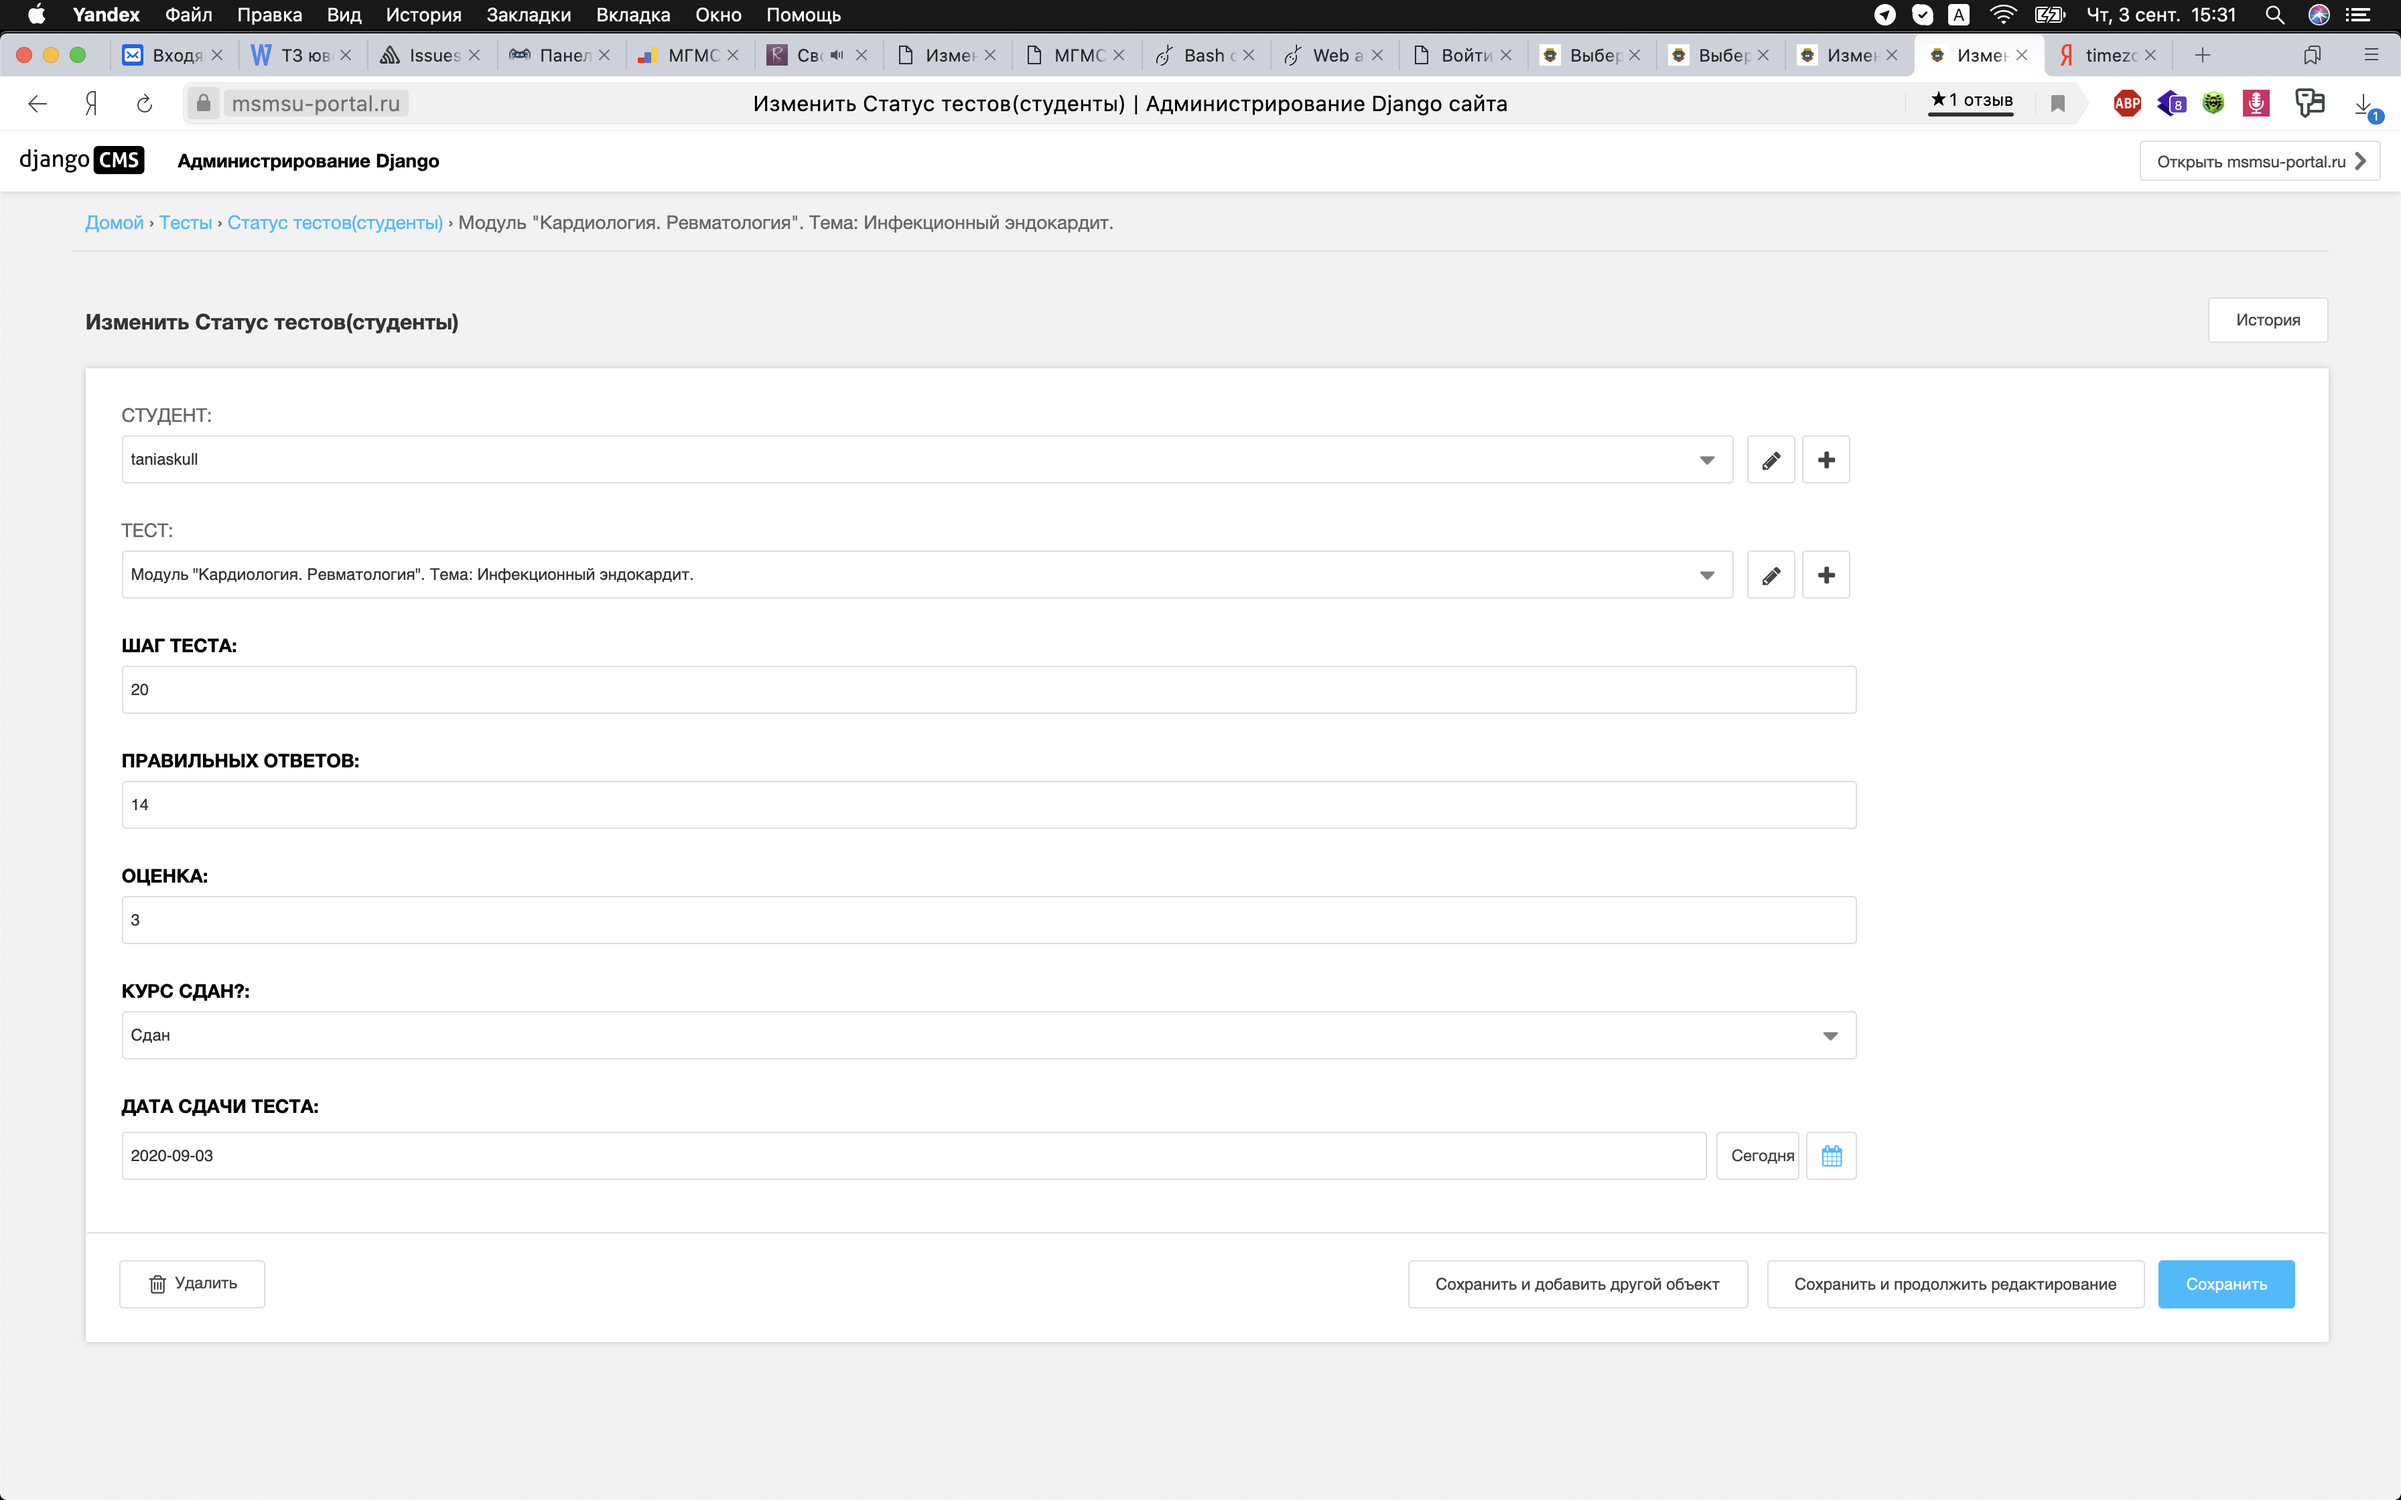
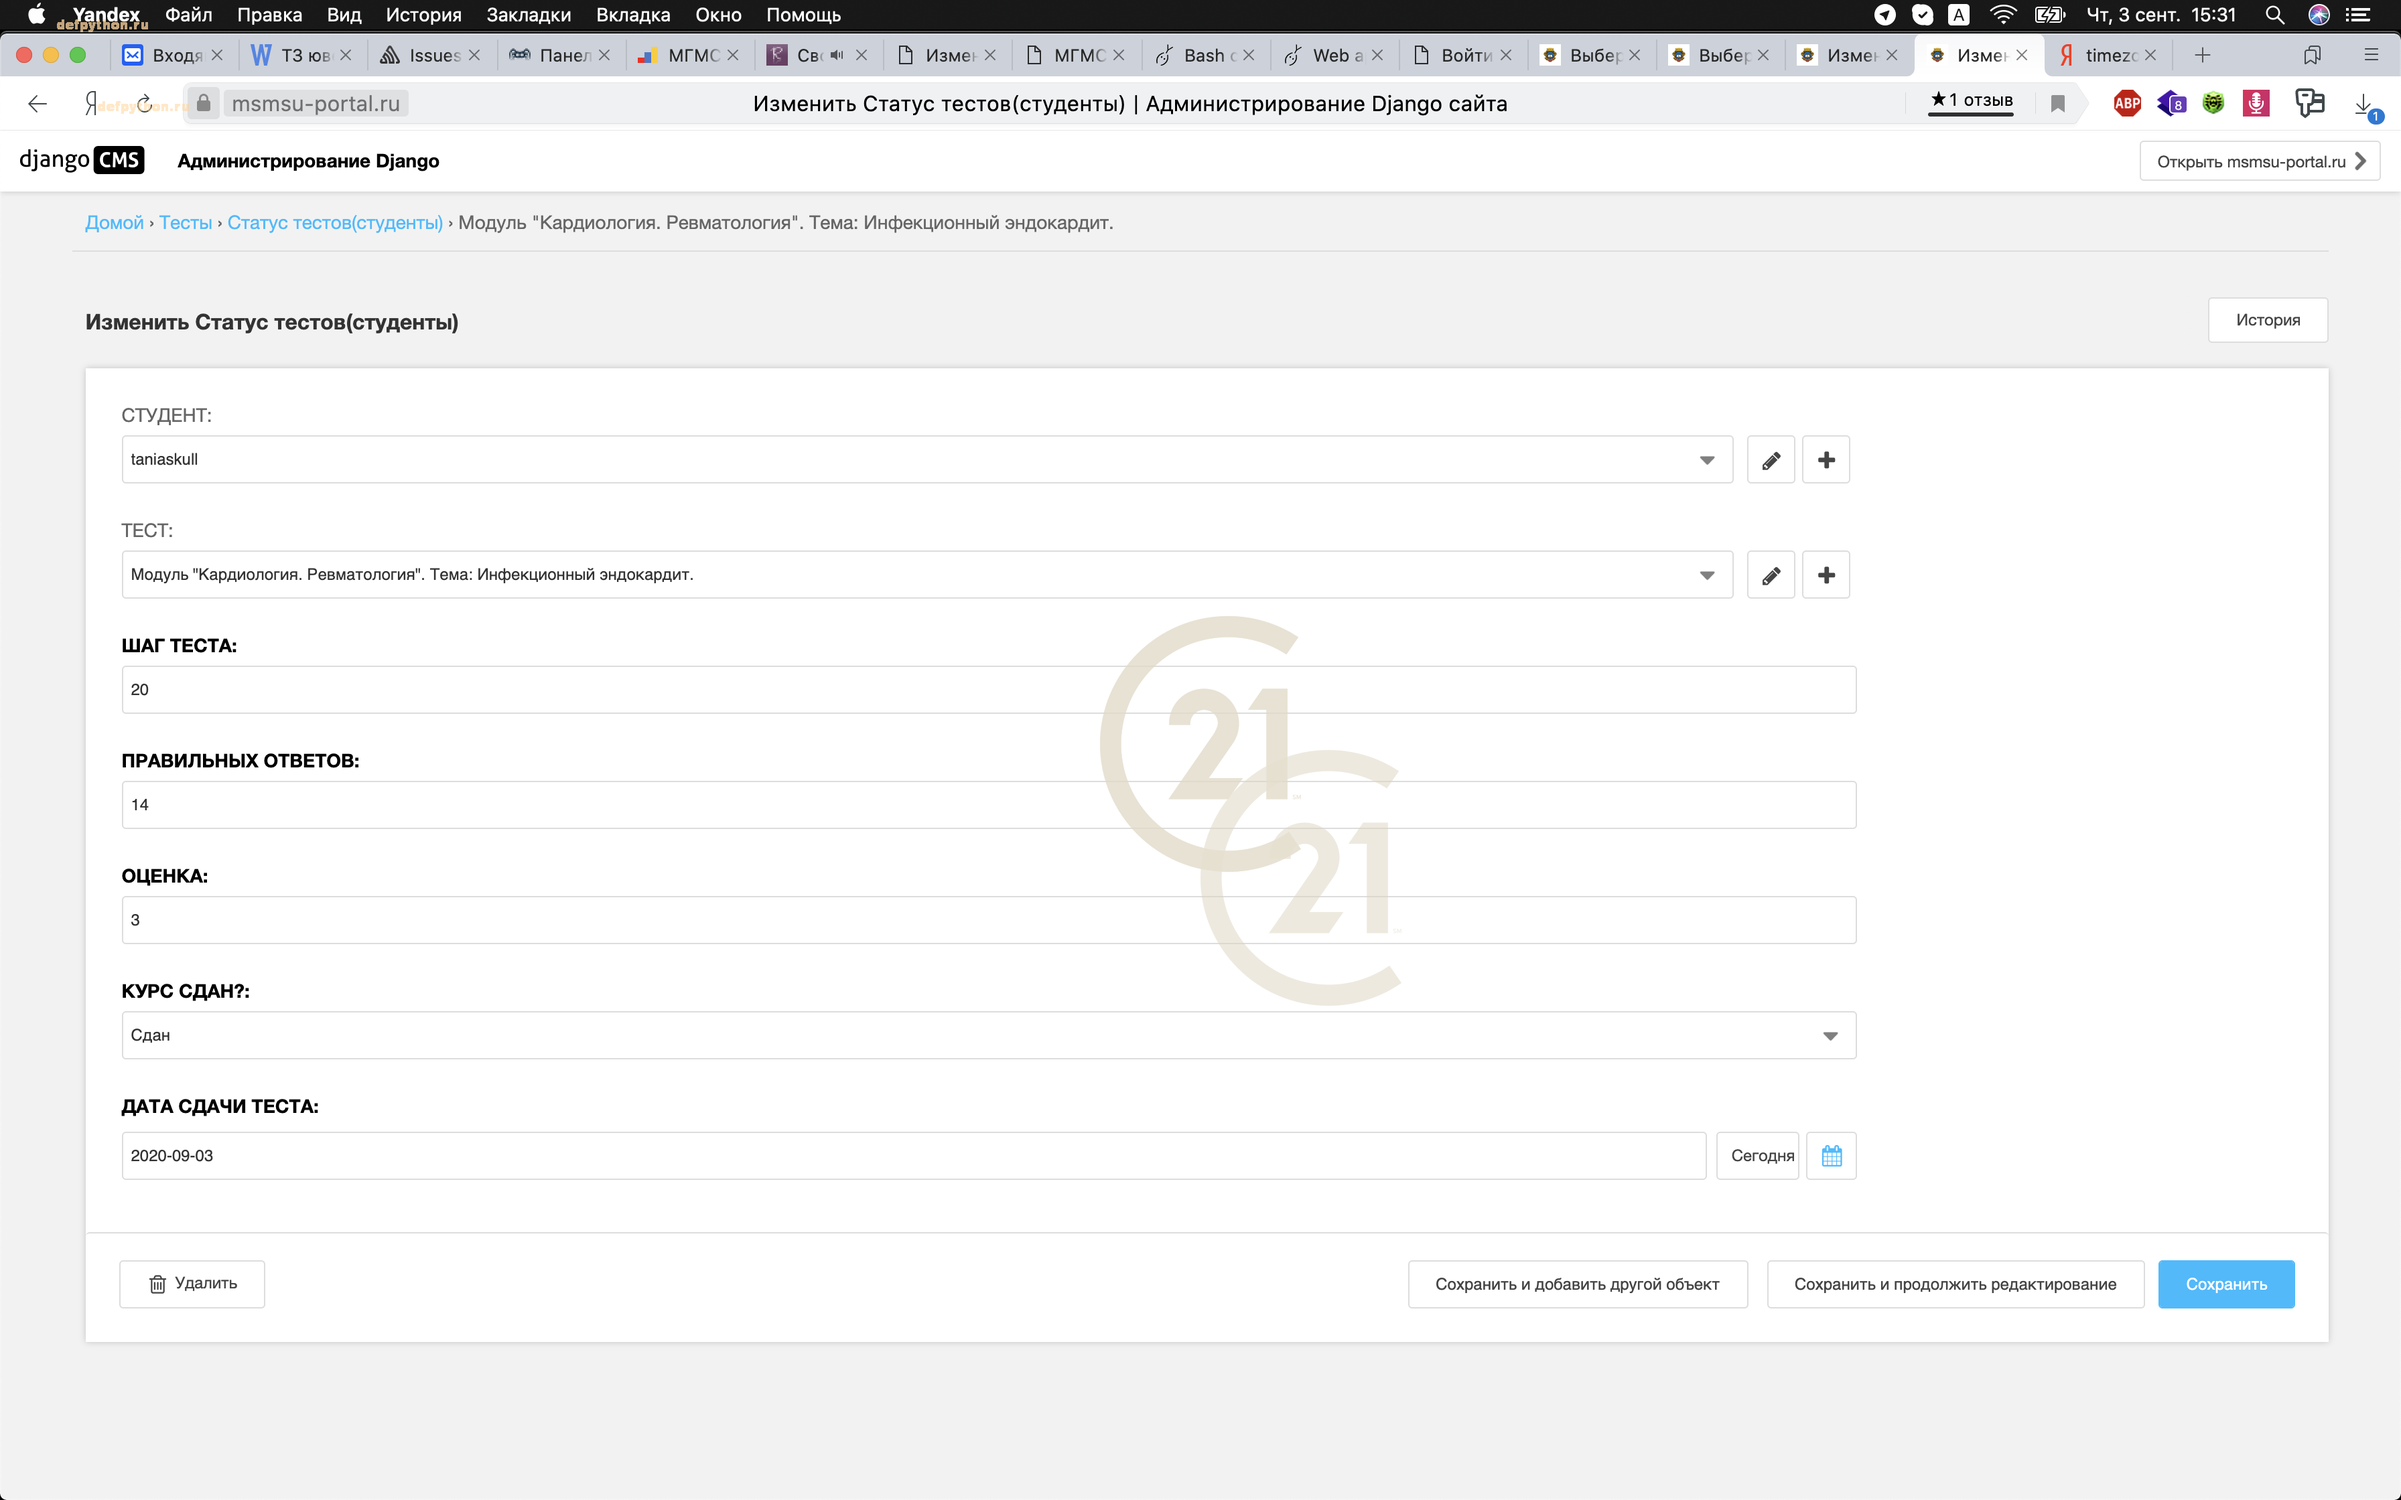
watermark

Changed region(s): [[0.4375, 0.4062, 0.5938, 0.6875], [0.0312, 0.0, 0.0625, 0.0312]]

diff --git a/templates/crm/uchastok/detail.html b/templates/crm/uchastok/detail.html
@@ -100,8 +100,8 @@
 	<div class="p-20" ><p> </p></div>
     <div class="row">
         {% for i in tp_uch.idd_gal.all %}
-            <div style="float:left; margin-right:10px; margin-top:10px;"> <img class="materialboxed" rel="gallery" height="250" src="http://77.222.52.20{{ i.npict.url|watermark:"1,opacity=40,scale=F"  }}"></div>
-        {% endfor %}	
+            <div style="float:left; margin-right:10px; margin-top:10px;"> <img class="materialboxed" rel="gallery" height="250" src="http://77.222.52.20{{ i.npict.url }}"></div>
+        {% endfor %}{% comment %}	|watermark:"1,opacity=40,scale=F" {% endcomment %}
 </div>
 {% if tp_uch.youtube %}
 <iframe width="560" height="315" src="https://www.youtube.com/embed/{{ tp_uch.youtube }}" frameborder="0" allow="accelerometer; autoplay; clipboard-write; encrypted-media; gyroscope; picture-in-picture" allowfullscreen></iframe>

diff --git a/templates/crm/flat/detail.html b/templates/crm/flat/detail.html
@@ -251,8 +251,8 @@
                                                         class="materialboxed"
                                                         rel="gallery"
                                                         height="250"
-                                                        src="http://77.222.52.20{{ i.npict.url|watermark:"1,opacity=40,scale=F" }}"></div>
-                                                {% comment %}{% endcomment %}
+                                                        src="http://77.222.52.20{{ i.npict.url }}"></div>
+                                                {% comment %}|watermark:"1,opacity=40,scale=F"{% endcomment %}
                                             {% endfor %}
 </div>
 {% if tpflat.youtube %}

diff --git a/templates/crm/doma/detail.html b/templates/crm/doma/detail.html
@@ -125,7 +125,7 @@
 	<div class="p-20" ><p> </p></div>
     <div class="row">
         {% for i in tpdom.idd_gal.all %}
-            <div style="float:left; margin-right:10px; margin-top:10px;"> <img class="materialboxed" rel="gallery" height="250" src="http://77.222.52.20{{ i.npict.url|watermark:"1,opacity=40,scale=F"  }}"></div>
+            <div style="float:left; margin-right:10px; margin-top:10px;"> <img class="materialboxed" rel="gallery" height="250" src="http://77.222.52.20{{ i.npict.url }}"></div>{% comment %}|watermark:"1,opacity=40,scale=F" {% endcomment %}
         {% endfor %}	
 </div>
 {% if tpdom %}

diff --git a/crm/views.py b/crm/views.py
@@ -387,6 +387,7 @@ def flat_postForm(request):
                     npict=a_file
                 )
                 instance.save()
+                instance.save_water()
             if '_submit_close'in request.POST:
                 return redirect('crm:my_flatunpub')
             if '_submit_new' in request.POST:
@@ -490,6 +491,7 @@ def my_flatview_edit(request,idd):
                     npict=a_file
                 )
                 instance.save()
+                instance.save_water()
             if '_submit_close'in request.POST:
                 return redirect('crm:my_flatunpub')
             if '_submit_new' in request.POST:
@@ -620,6 +622,7 @@ def my_flatview_pub(request):
                                                cena_agenstv__gte=int(minc), cena_agenstv__lte=int(maxc),
                                                ploshad__gte=int(minp), ploshad__lte=int(maxp),
                                                type = 'flat').order_by('-date_sozd')
+
 
         if KrFlatSearch.is_valid() and '_kr_submit' in request.POST:
             minp = KrFlatSearch.cleaned_data['search_minp']
@@ -1503,6 +1506,7 @@ def new_dom_view(request):
                     npict=a_file
                 )
                 instance.save()
+                instance.save_water()
             if '_submit_close' in request.POST:
                 return redirect('crm:upb_dom_view')
             if '_submit_new' in request.POST:
@@ -1547,6 +1551,7 @@ def domaeditview(request,idd):
                     npict=a_file
                 )
                 instance.save()
+                instance.save_water()
             if '_submit_close' in request.POST:
                 return redirect('crm:upb_dom_view')
             if '_submit_new' in request.POST:
@@ -1731,6 +1736,7 @@ def new_uc_view(request):
                     npict=a_file
                 )
                 instance.save()
+                instance.save_water()
             if '_submit_close' in request.POST:
                 return redirect('crm:unpub_uc_index')
             if '_submit_new' in request.POST:
@@ -1780,6 +1786,7 @@ def ucheditview(request,idd):
                     npict=a_file
                 )
                 instance.save()
+                instance.save_water()
             if '_submit_close' in request.POST:
                 return redirect('crm:unpub_uc_index')
             if '_submit_new' in request.POST:

diff --git a/crm/models.py b/crm/models.py
@@ -404,33 +404,19 @@ class flat_obj_gal(models.Model):
 #        self.npict.delete()
 
     #
-    # def save(self, *args, **kwargs):
-    #     #import Image
-    #
-    #     from PIL import Image
-    #     print(self.npict.path)
-    #     filepath = self.npict.path
-    #     image = Image.open(filepath)
-    #     crm_watermark = Watermark.objects.first().image.path
-    #     print(crm_watermark)
-    #     watermark = Image.open(crm_watermark)
-    #     print(watermark)
-    #     image.paste(watermark, (round(image.size[0] / 2), round(image.size[1] / 2)), watermark)
-    #     #print(image)
-    #     image.save(filepath)
-    #     #print(image)
-    #
-    #     print(watermark.size[0] / 2, ' ', watermark.size[1] / 2)
-    #     # base_image = Image.open(self.npict)
-    #     # watermark = Image.open(watermark_image_path)
-    #     # width, height = base_image.size
-    #     #
-    #     # transparent = Image.new('RGBA', (width, height), (0, 0, 0, 0))
-    #     # transparent.paste(base_image, (0, 0))
-    #     # transparent.paste(watermark, position, mask=watermark)
-    #     # transparent.show()
-    #     # transparent.save(output_image_path)
-    #     super(flat_obj_gal, self).save(*args, **kwargs)
+    def save_water(self, *args, **kwargs):
+        #import Image
+
+        from PIL import Image
+        filepath = self.npict.path
+        print(filepath)
+        image = Image.open(filepath)
+        crm_watermark = Watermark.objects.first().image.path
+        watermark = Image.open(crm_watermark)
+        #image.paste(watermark, (round(image.size[0] / 2), round(image.size[1] / 2)), watermark)
+        image.paste(watermark, (round(image.size[0] / 2) - 150, round(image.size[1] / 2) - 200), watermark)
+        image.save(filepath)
+        super(flat_obj_gal, self).save(*args, **kwargs)
 
 
 class clients(models.Model):

diff --git a/crm/admin.py b/crm/admin.py
@@ -116,6 +116,8 @@ class zadachi_spr_fields(admin.ModelAdmin):
 class kanal_pr_fields(admin.ModelAdmin):
     list_display = ('pk','kanal','voronka_counts')
 
+class galery_fields(admin.ModelAdmin):
+    list_display = ('pk','id_gal','npict')
 
 admin.site.register(flat_obj, flatfields, )
 admin.site.register(otchet_nov, sdelka_nov)
@@ -137,7 +139,7 @@ admin.site.register(comment, comment_fields)
 admin.site.register(zayavka_subj)#, zadachi_spr_fields)
 admin.site.register(zadachi, zadachi_fields)
 admin.site.register(zadachi_spr, zadachi_spr_fields)
-
+admin.site.register(flat_obj_gal, galery_fields)
 class UserInline(admin.StackedInline):
     model = UserProfile1
     can_delete = False

diff --git a/shell/img.py b/shell/img.py
@@ -1,0 +1,9 @@
+from PIL import Image
+
+img = Image.open('image.jpg')
+watermark = Image.open('watermark.png')
+
+img.paste(watermark, (round(img.size[0]/2)-150, round(img.size[1]/2)-200),  watermark)
+img.save("img_with_watermark.png")
+print(img.size[0]/2, ' ', img.size[1]/2)
+print(img.size[0], ' ', img.size[1])

diff --git a/shell/add_watermark.py b/shell/add_watermark.py
@@ -1,0 +1,4 @@
+from crm.models import flat_obj_gal
+
+for pict in flat_obj_gal.objects.all():
+    pict.save_water()
